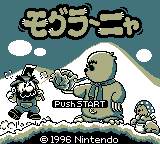
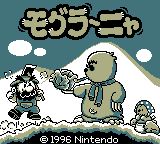
Updated results to commit 6d836b9

Changed region(s): [[0.3125, 0.6944, 0.6875, 0.75]]

diff --git a/results.html b/results.html
@@ -2,7 +2,7 @@
 <html>
 <head>
     <meta charset="utf-8" />
-    <title> Sameboy 0.7 prerelease (ad60403) automation results – DMG Library</title>
+    <title> Sameboy 0.7 prerelease (6d836b9) automation results – DMG Library</title>
     <style type="text/css">
         #wall *, body, html {padding: 0; margin:0;}
         #wall {text-align: center;}
@@ -17,13 +17,12 @@
     </style>
 </head>
 <body>
-<h1> Sameboy 0.7 prerelease (ad60403) automation results – DMG Library</h1>
-<p>The first screenshot was taken after 40 seconds of running the game without pressing any button. The second screenshot was taken after 120 seconds, after attempting to start the game by repeatedly pressing Start and A. 1363 out of 1405 games passed.</p>
+<h1> Sameboy 0.7 prerelease (6d836b9) automation results – DMG Library</h1>
+<p>The first screenshot was taken after 40 seconds of running the game without pressing any button. The second screenshot was taken after 120 seconds, after attempting to start the game by repeatedly pressing Start and A. 1366 out of 1405 games passed.</p>
 <h2> Failures </h2>
 <ol>
 <li>All-Star Baseball '99 (U) [!] – The game is probably stuck in an FF loop.</li>
 <li>Cave Noire (J) – Illegal Opcode. Halting.</li>
-<li>Chiki Chiki Tengoku (J) – Screenshots are identical</li>
 <li>DX Bakenou (J) [!] – A stack overflow has probably occurred.</li>
 <li>Daisenryaku (J) – The game is probably stuck in an FF loop.</li>
 <li>F-1 Race (JUE) (V1.0) [!] – The game is probably stuck in an FF loop.</li>
@@ -36,8 +35,6 @@
 <li>Konami Golf (J) – A stack overflow has probably occurred.</li>
 <li>Kwirk (UE) [!] – A stack overflow has probably occurred.</li>
 <li>Meitantei Conan (J) [S] – The game is probably stuck in an FF loop.</li>
-<li>Moguranya (J) [S] – A stack overflow has probably occurred.</li>
-<li>Mole Mania (U) [S][!] – A stack overflow has probably occurred.</li>
 <li>Momotarou Collection 2 (J) [S] – Cartridge type 0d is not yet supported.</li>
 <li>Nintendo World Cup (U) [!] – The game is probably stuck in an FF loop.</li>
 <li>Pinball Deluxe (U) – A stack overflow has probably occurred.</li>
@@ -1355,8 +1352,7 @@ The game is deadlocked.
 <div class="result"><h2>Chibi Maruko-chan 2 - Deluxe Maruko World (J)</h2><div class="resultContent"><img src="40Seconds/Chibi Maruko-chan 2 - Deluxe Maruko World (J).png" /><img src="Started/Chibi Maruko-chan 2 - Deluxe Maruko World (J).png" /></div></div>
 <div class="result"><h2>Chibi Maruko-chan 3 - Mezase! Game Taishou no Maki (J)</h2><div class="resultContent"><img src="40Seconds/Chibi Maruko-chan 3 - Mezase! Game Taishou no Maki (J).png" /><img src="Started/Chibi Maruko-chan 3 - Mezase! Game Taishou no Maki (J).png" /></div></div>
 <div class="result"><h2>Chibi Maruko-chan 4 - Kore ga Nippon dayo! Ouji-sama (J)</h2><div class="resultContent"><img src="40Seconds/Chibi Maruko-chan 4 - Kore ga Nippon dayo! Ouji-sama (J).png" /><img src="Started/Chibi Maruko-chan 4 - Kore ga Nippon dayo! Ouji-sama (J).png" /></div></div>
-<div class="result failure"><h2>Chiki Chiki Tengoku (J)</h2><div class="resultContent"><img src="40Seconds/Chiki Chiki Tengoku (J).png" /><img src="Started/Chiki Chiki Tengoku (J).png" /> <pre class="logs">Screenshots are identical
-</pre></div></div>
+<div class="result"><h2>Chiki Chiki Tengoku (J)</h2><div class="resultContent"><img src="40Seconds/Chiki Chiki Tengoku (J).png" /><img src="Started/Chiki Chiki Tengoku (J).png" /></div></div>
 <div class="result"><h2>Chiki Race (J) [!]</h2><div class="resultContent"><img src="40Seconds/Chiki Race (J) [!].png" /><img src="Started/Chiki Race (J) [!].png" /></div></div>
 <div class="result"><h2>Choplifter II (J)</h2><div class="resultContent"><img src="40Seconds/Choplifter II (J).png" /><img src="Started/Choplifter II (J).png" /> <pre class="logs">40 Seconds log:
 Wrote 00 to feff (Unused)
@@ -5199,22 +5195,8 @@ Wrote ff to feff (Unused)
 </pre></div></div>
 <div class="result"><h2>Mogu Mogu Q (J) [S][!]</h2><div class="resultContent"><img src="40Seconds/Mogu Mogu Q (J) [S][!].png" /><img src="Started/Mogu Mogu Q (J) [S][!].png" /></div></div>
 <div class="result"><h2>Mogura De Pon! (J)</h2><div class="resultContent"><img src="40Seconds/Mogura De Pon! (J).png" /><img src="Started/Mogura De Pon! (J).png" /></div></div>
-<div class="result failure"><h2>Moguranya (J) [S]</h2><div class="resultContent"><img src="40Seconds/Moguranya (J) [S].png" /><img src="Started/Moguranya (J) [S].png" /> <pre class="logs">40 Seconds log:
-A stack overflow has probably occurred.
-
-Start attempt log:
-A stack overflow has probably occurred.
-
-Screenshots are identical
-</pre></div></div>
-<div class="result failure"><h2>Mole Mania (U) [S][!]</h2><div class="resultContent"><img src="40Seconds/Mole Mania (U) [S][!].png" /><img src="Started/Mole Mania (U) [S][!].png" /> <pre class="logs">40 Seconds log:
-A stack overflow has probably occurred.
-
-Start attempt log:
-A stack overflow has probably occurred.
-
-Screenshots are identical
-</pre></div></div>
+<div class="result"><h2>Moguranya (J) [S]</h2><div class="resultContent"><img src="40Seconds/Moguranya (J) [S].png" /><img src="Started/Moguranya (J) [S].png" /></div></div>
+<div class="result"><h2>Mole Mania (U) [S][!]</h2><div class="resultContent"><img src="40Seconds/Mole Mania (U) [S][!].png" /><img src="Started/Mole Mania (U) [S][!].png" /></div></div>
 <div class="result"><h2>Momotarou Collection (J) [S]</h2><div class="resultContent"><img src="40Seconds/Momotarou Collection (J) [S].png" /><img src="Started/Momotarou Collection (J) [S].png" /></div></div>
 <div class="result failure"><h2>Momotarou Collection 2 (J) [S]</h2><div class="resultContent"><img src="40Seconds/Momotarou Collection 2 (J) [S].png" /><img src="Started/Momotarou Collection 2 (J) [S].png" /> <pre class="logs">40 Seconds log:
 Cartridge type 0d is not yet supported.
